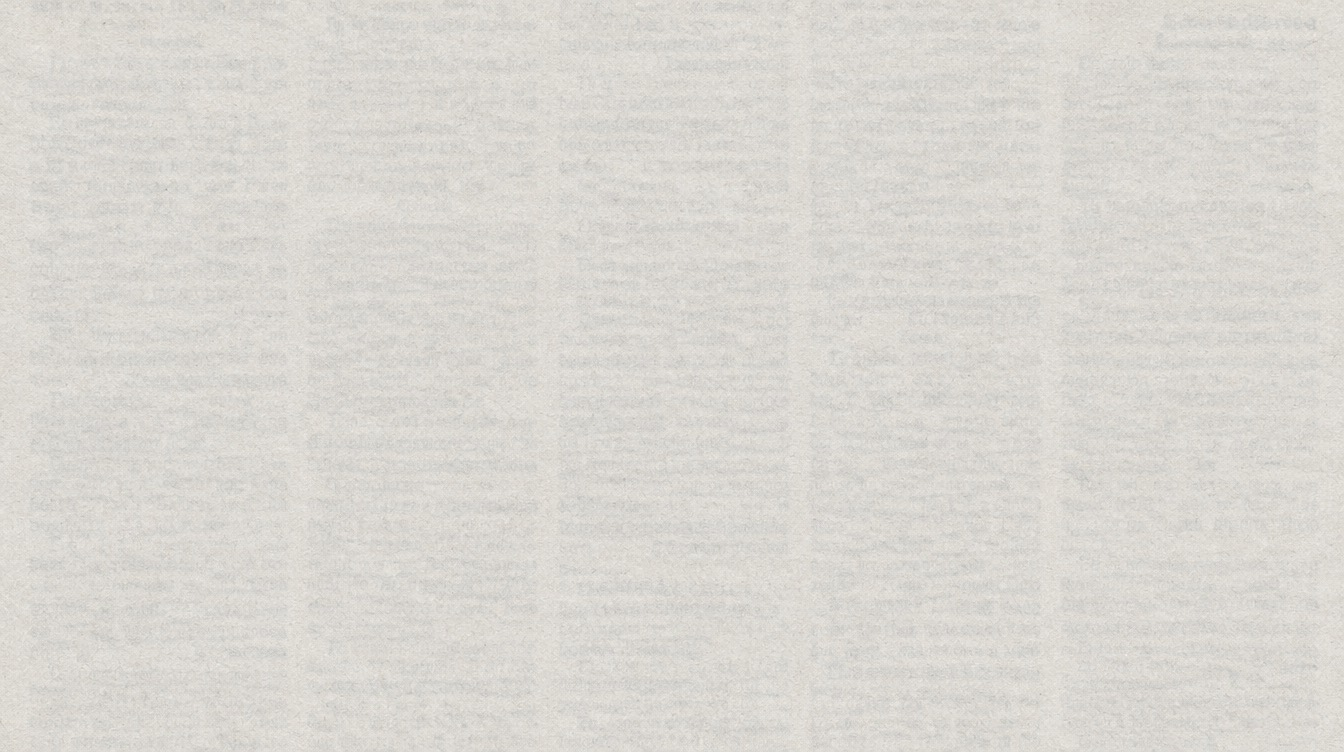
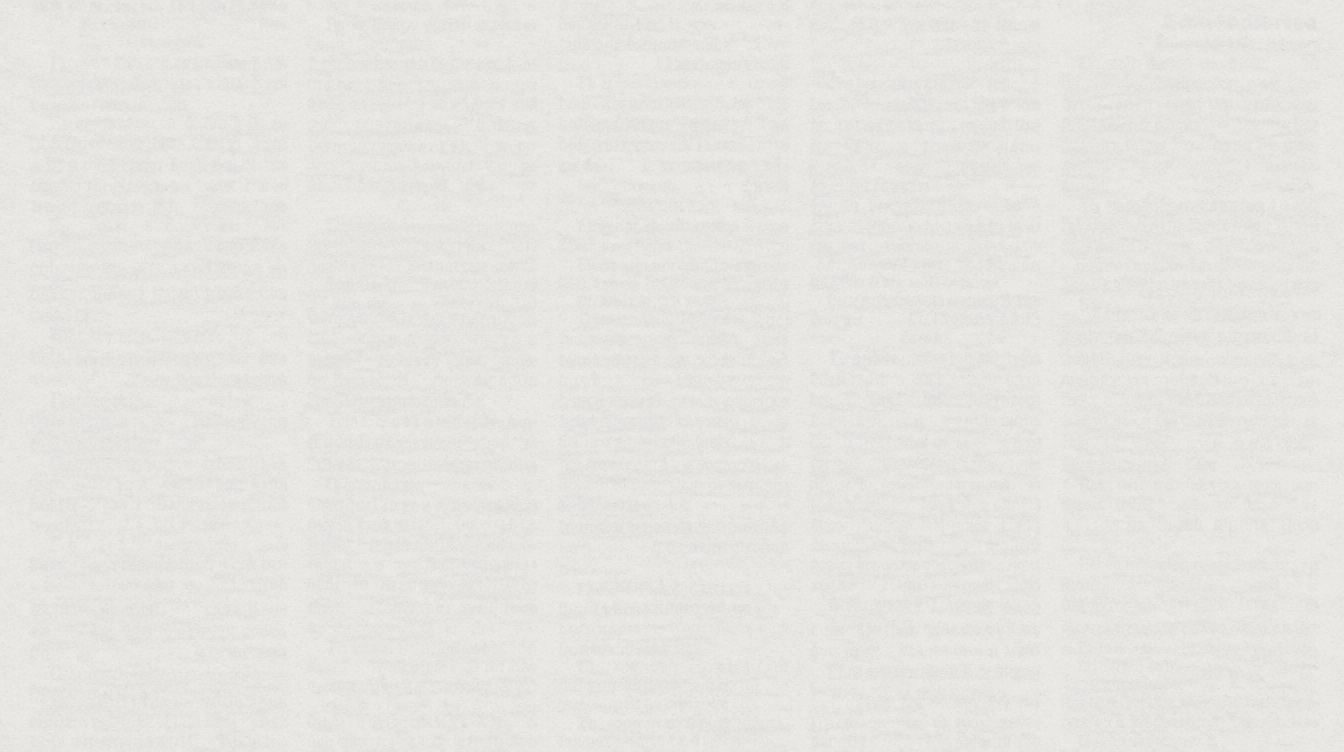
Lighter paper texture, deeper ink

diff --git a/public/styles.css b/public/styles.css
@@ -3,8 +3,8 @@
 
 :root {
   --paper: #e6e4dc;        /* cool grey newsprint */
-  --ink: #23211c;          /* warm printing ink */
-  --ink-faded: #625e53;    /* worn type */
+  --ink: #12110e;          /* deep printing ink */
+  --ink-faded: #4a463d;    /* worn type */
   --rule: #3a372f;
   --tint: #f7f6f2;         /* multiplied over the paper texture */
   --wash-up: #e2f0d8;      /* bullish paper */
